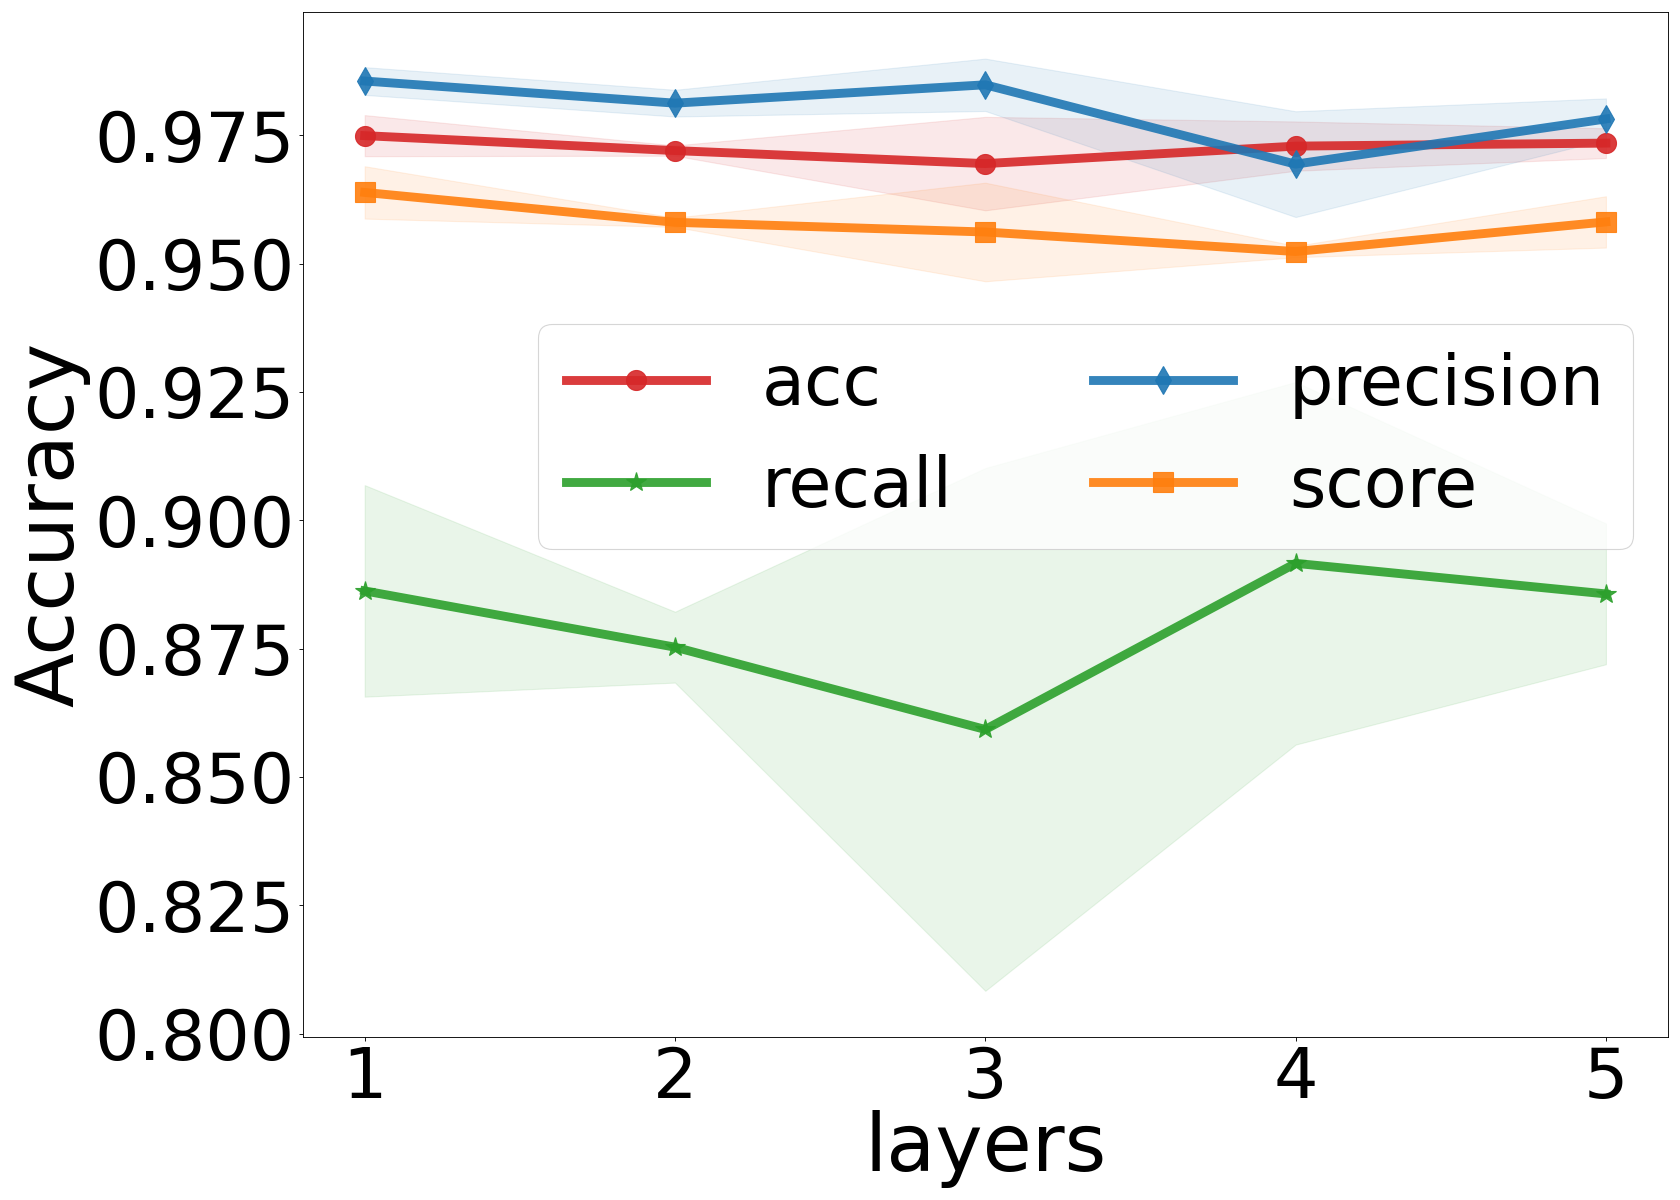
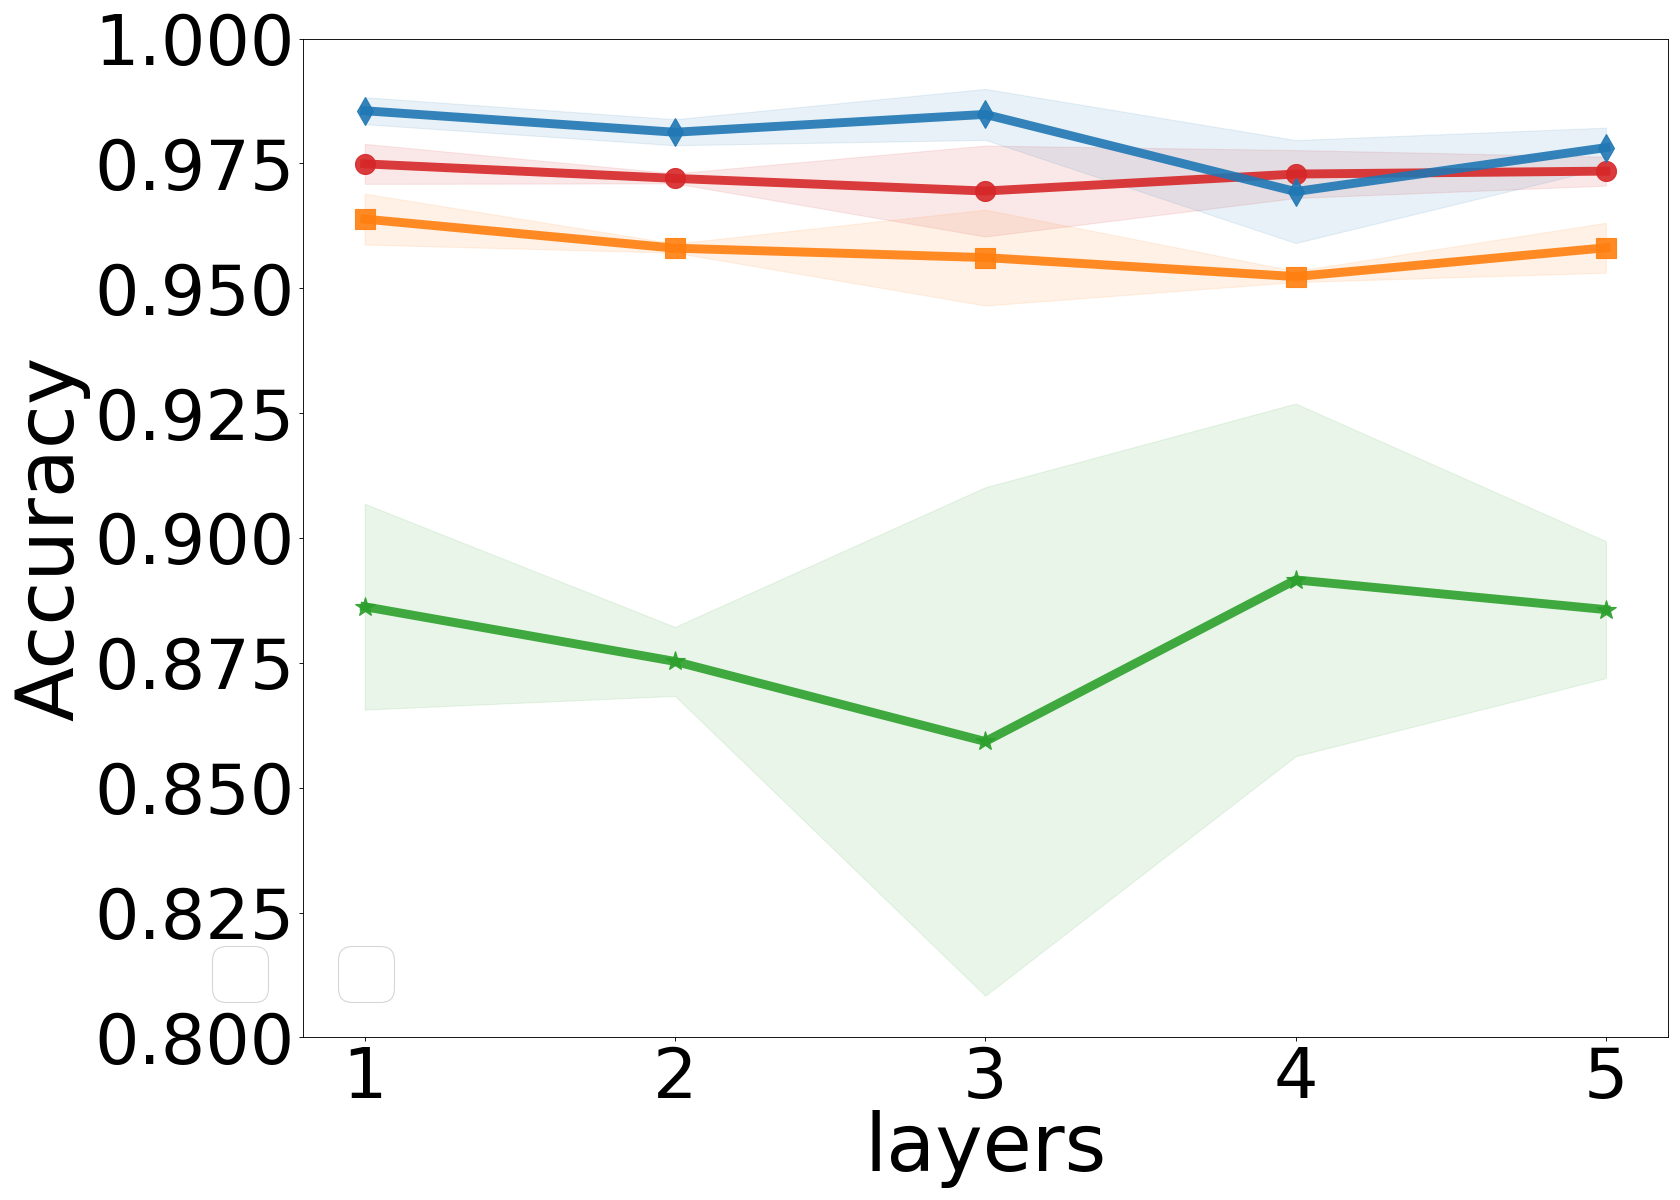
try to adjust gin, tmply failed

diff --git a/plot_curve.py b/plot_curve.py
@@ -16,7 +16,7 @@ y_avg = {}
 y_std = {}
 configs = []
 metrics = []
-if args.readtype in ['gat','gin']:
+if args.readtype in ['gat','gin', 'cad']:
     with open(f"rslt_data/{args.datafile}", "r") as fin:
         line_cnt = 0
         for line in fin.readlines():
@@ -102,11 +102,12 @@ legend_fontsize = fontsize -9
 plt.figure(figsize=(21,15), dpi=80)
 std_alpha = 0.1
 
+curves = []
 for i in range(len(metrics)):
-    plt.plot(range(len(x_str)), y_avg[metrics[i]], 
+    curves.append(plt.plot(range(len(x_str)), y_avg[metrics[i]], 
         color=color_list[i], marker=marker_list[i], 
         linestyle=linestyle_list[0], label=labels[i], 
-        markersize=markersize, alpha=alpha, linewidth=linewidth)
+        markersize=markersize, alpha=alpha, linewidth=linewidth))
     if args.with_std:
         r1 = list(map(lambda x: x[0]-x[1], zip(y_avg[metrics[i]], y_std[metrics[i]])))#上方差
         r2 = list(map(lambda x: x[0]+x[1], zip(y_avg[metrics[i]], y_std[metrics[i]])))#下方差
@@ -118,6 +119,13 @@ plt.yticks(fontsize=ticks_fontsize)
 if args.datafile == 'gcn_split2_vary_layers.txt':
     plt.ylim(0.875, 0.985)
     plt.legend(loc='lower left', bbox_to_anchor=(0.1, 0), ncol=1, fontsize=legend_fontsize)
+elif args.datafile == 'cad_split2_vary_layers.txt':
+    plt.legend(loc='upper right', bbox_to_anchor=(1, 0.67), ncol=2, fontsize=legend_fontsize)
+elif args.datafile == 'gin_split2_vary_layers.txt':
+    plt.ylim(0.80, 1.0)
+    a=plt.legend([curves[0], curves[1]],[labels[0], labels[1]], loc="lower left", bbox_to_anchor=(0,0), fontsize=legend_fontsize)
+    plt.legend([curves[2], curves[3]],[labels[2], labels[3]],loc="lower right", bbox_to_anchor=(0,0), fontsize=legend_fontsize)
+    plt.gca().add_artist(a)
 else:
     plt.legend(loc='upper right', bbox_to_anchor=(1, 0.73), ncol=2, fontsize=legend_fontsize)
 plt.tight_layout()

diff --git a/README.md b/README.md
@@ -76,6 +76,10 @@
     ```python
     python plot_curve.py --datafile gat_split2_vary_layers.txt --readtype gat
     ```
+* cad不同layer结果画图：
+    ```python
+    python plot_curve.py --datafile cad_split2_vary_layers.txt --readtype cad
+    ```
 * gin不同layer结果画图：
     ```python
     python plot_curve.py --datafile gin_split2_vary_layers.txt --readtype gin
